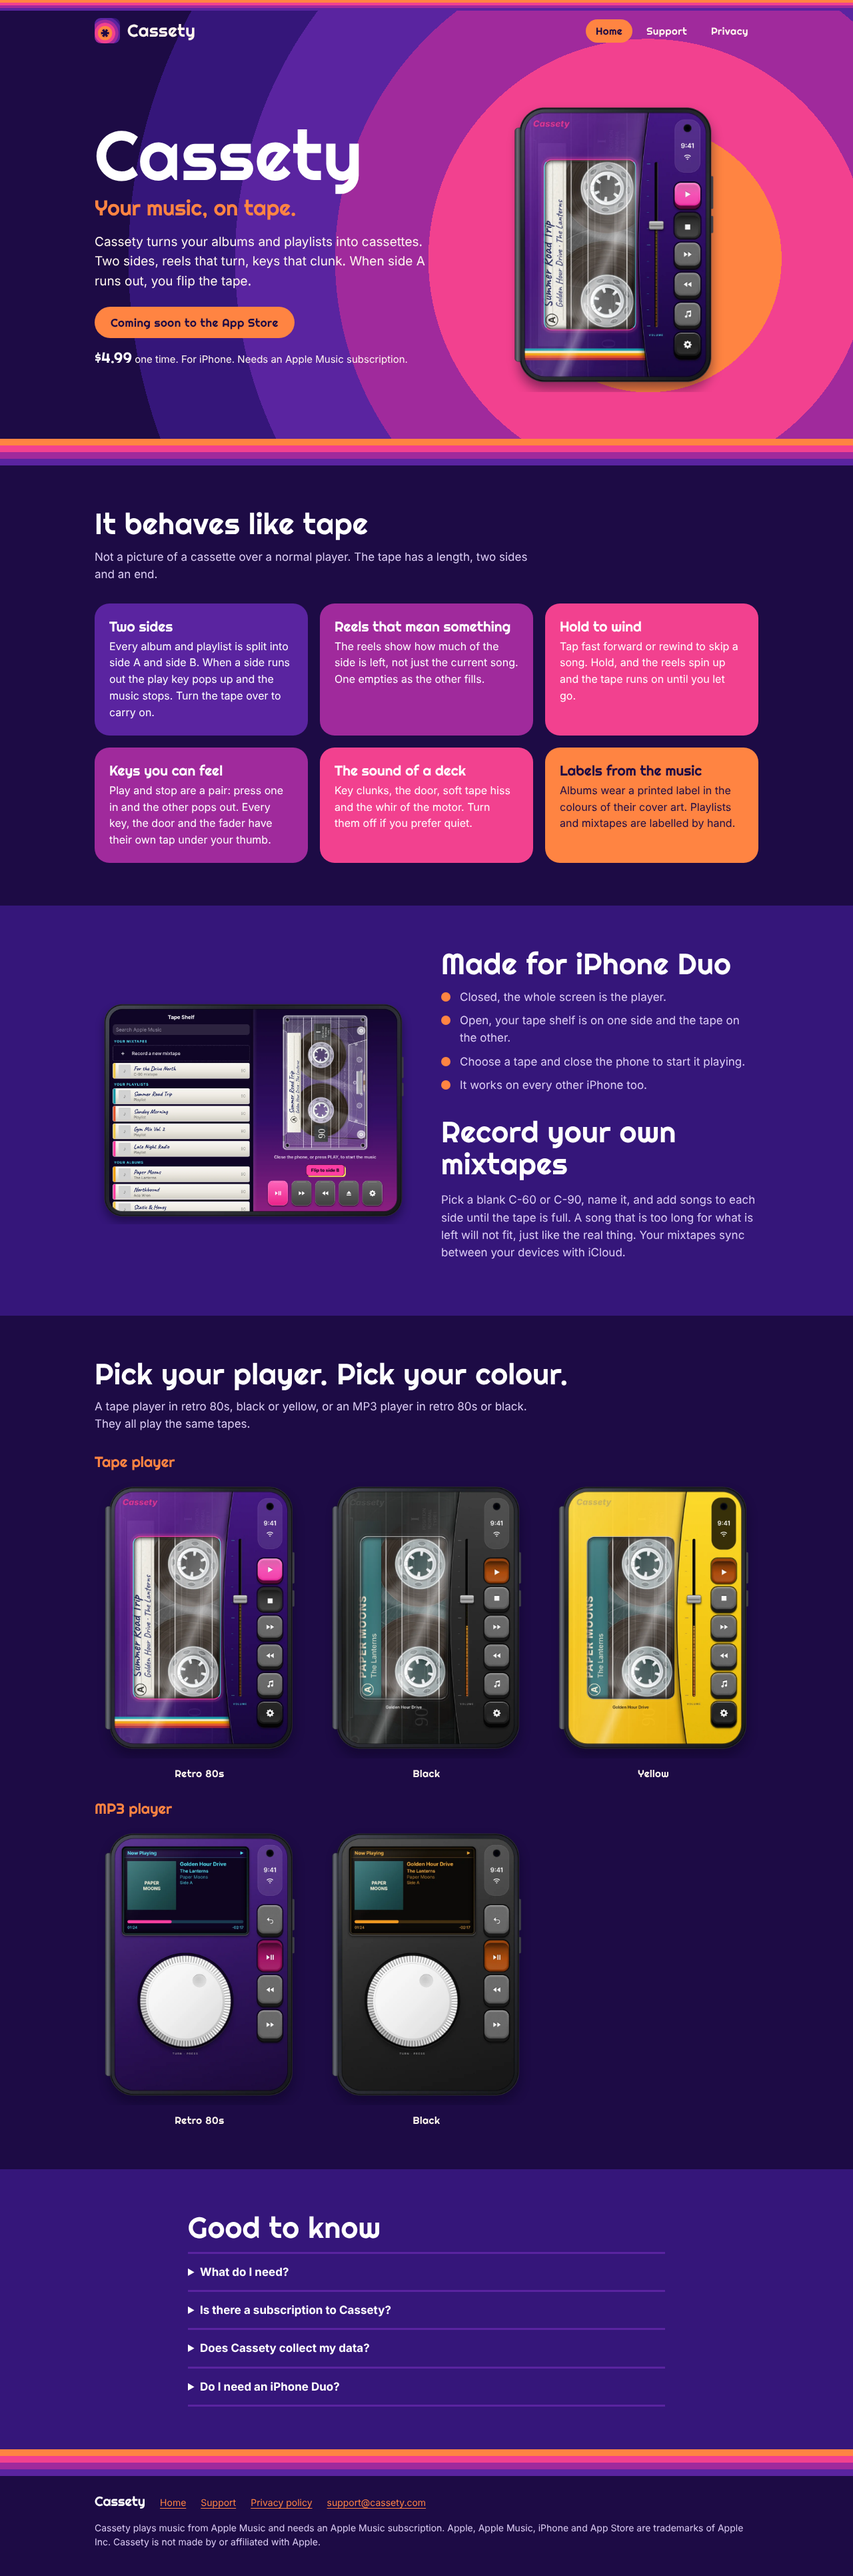
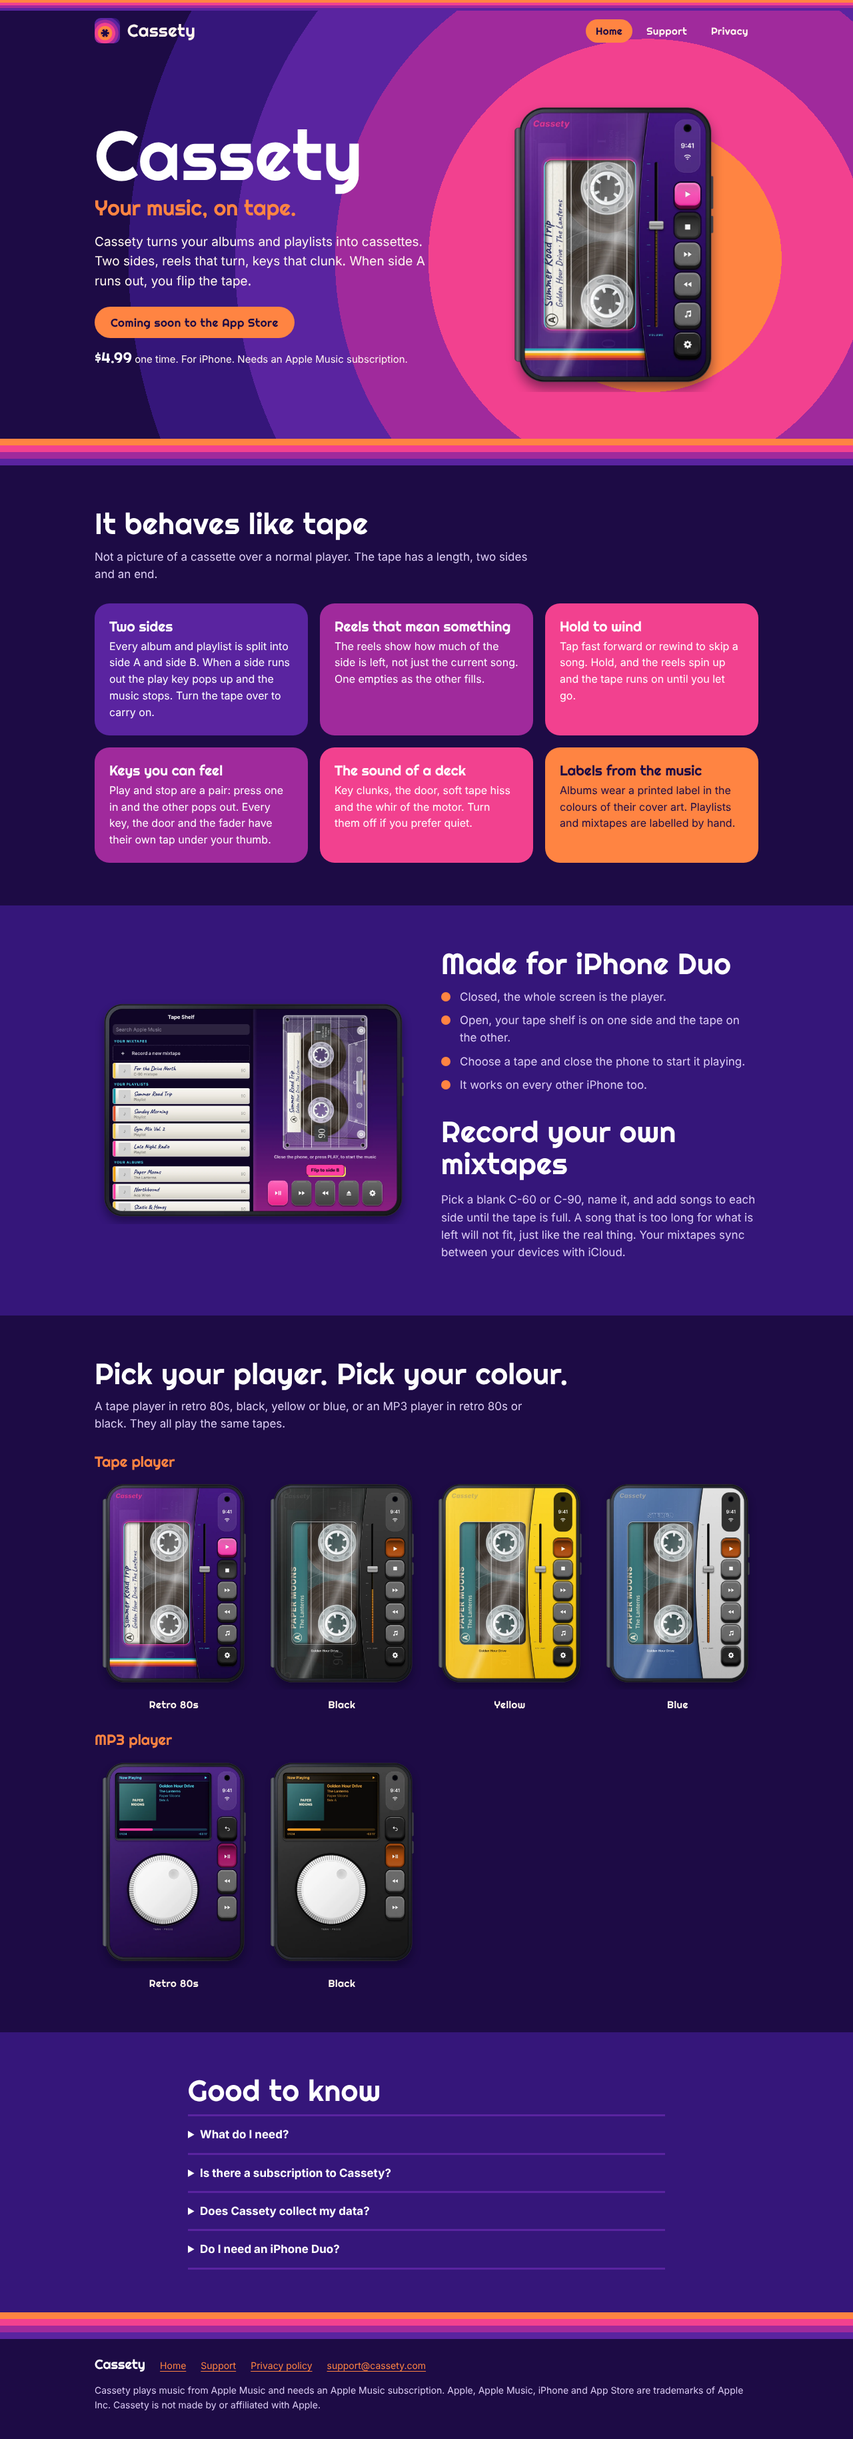
Add a blue and silver tape player skin
Blue painted metal with a silver side panel, an orange play key and
STEREO in outline lettering. Tape player only.

Claude-Session: https://claude.ai/code/session_015CNmSEpanpmujmbPK8yXHv

diff --git a/TapeDeck/Skin.swift b/TapeDeck/Skin.swift
@@ -10,6 +10,9 @@ enum Skin: String, CaseIterable, Identifiable {
     case yellow
     /// Eighties neon: deep purple with hot pink and cyan, and a band of stripes.
     case neon
+    /// Cassette player in blue painted metal with a silver side, like the
+    /// first pocket stereos of 1979.
+    case blue
     /// Click-wheel player in black.
     case wheelBlack
     /// Click-wheel player in silver with a white wheel.
@@ -48,6 +51,7 @@ enum Skin: String, CaseIterable, Identifiable {
         case .smoke: return "Black cassette player"
         case .yellow: return "Yellow cassette player"
         case .neon: return "Retro 80s cassette player"
+        case .blue: return "Blue cassette player"
         case .wheelBlack: return "Black click wheel"
         case .wheelSilver: return "Silver click wheel"
         }
@@ -58,6 +62,10 @@ enum Skin: String, CaseIterable, Identifiable {
 
     private var isPale: Bool { self == .yellow || self == .wheelSilver }
 
+    /// The blue player's case is dark but its side panel is pale silver, so
+    /// what sits on the panel is treated as on a pale case.
+    private var hasPalePanel: Bool { isPale || self == .blue }
+
     /// The casing over the tape, top left to bottom right. Smoke lets the
     /// tape show through dimly; yellow is very nearly solid.
     var casing: [Color] {
@@ -65,6 +73,11 @@ enum Skin: String, CaseIterable, Identifiable {
             return [Color(red: 1.00, green: 0.85, blue: 0.20).opacity(0.96),
                     Color(red: 0.98, green: 0.77, blue: 0.09).opacity(0.96),
                     Color(red: 0.91, green: 0.68, blue: 0.04).opacity(0.96)]
+        }
+        if self == .blue {
+            return [Color(red: 0.33, green: 0.47, blue: 0.68).opacity(0.97),
+                    Color(red: 0.24, green: 0.37, blue: 0.58).opacity(0.97),
+                    Color(red: 0.17, green: 0.28, blue: 0.47).opacity(0.97)]
         }
         if self == .neon {
             return [Color(red: 0.38, green: 0.10, blue: 0.58).opacity(0.93),
@@ -80,6 +93,9 @@ enum Skin: String, CaseIterable, Identifiable {
         if self == .yellow {
             return [Color(red: 0.99, green: 0.81, blue: 0.14), Color(red: 0.95, green: 0.73, blue: 0.07),
                     Color(red: 0.87, green: 0.64, blue: 0.03)]
+        }
+        if self == .blue {
+            return [Color(white: 0.86), Color(white: 0.76), Color(white: 0.64)]
         }
         if self == .neon {
             return [Color(red: 0.22, green: 0.08, blue: 0.42), Color(red: 0.14, green: 0.04, blue: 0.31),
@@ -127,20 +143,21 @@ enum Skin: String, CaseIterable, Identifiable {
     /// or shadow that makes them read as cut.
     var engraving: Color {
         if self == .neon { return Self.cyan.opacity(0.85) }
-        return isPale ? Color.black.opacity(0.60) : Color.white.opacity(0.55)
+        return hasPalePanel ? Color.black.opacity(0.60) : Color.white.opacity(0.55)
     }
 
     var engravingEdge: Color {
-        isPale ? Color.white.opacity(0.45) : Color.black.opacity(0.8)
+        hasPalePanel ? Color.white.opacity(0.45) : Color.black.opacity(0.8)
     }
 
     /// Which way the engraving's edge falls: shadow above on dark plastic,
     /// light below on pale.
-    var engravingEdgeOffset: CGFloat { isPale ? 0.7 : -0.7 }
+    var engravingEdgeOffset: CGFloat { hasPalePanel ? 0.7 : -0.7 }
 
     /// The faint Cassety name on the case.
     var mark: Color {
         if self == .neon { return Self.hotPink.opacity(0.85) }
+        if self == .blue { return Color.white.opacity(0.55) }
         return isPale ? Color.black.opacity(0.20) : Color.white.opacity(0.22)
     }
 
@@ -151,7 +168,10 @@ enum Skin: String, CaseIterable, Identifiable {
 
     /// The clock and status icons at the top of the Duo's rail are drawn in
     /// white, so a pale case needs a dark plate behind them.
-    var needsStatusPlate: Bool { isPale }
+    var needsStatusPlate: Bool { hasPalePanel }
+
+    /// A word in outline lettering above the tape window, if the case has one.
+    var caseWord: String? { self == .blue ? "STEREO" : nil }
 
     /// The body of a click-wheel player, top to bottom.
     var wheelBody: [Color] {
@@ -184,6 +204,7 @@ enum Skin: String, CaseIterable, Identifiable {
         case .smoke: return Color(white: 0.14)
         case .yellow: return Color(red: 0.98, green: 0.77, blue: 0.09)
         case .neon: return Color(red: 0.86, green: 0.16, blue: 0.62)
+        case .blue: return Color(red: 0.24, green: 0.37, blue: 0.58)
         case .wheelBlack: return Color(white: 0.04)
         case .wheelSilver: return Color(white: 0.80)
         }

diff --git a/TapeDeck/DeckView.swift b/TapeDeck/DeckView.swift
@@ -94,6 +94,16 @@ struct DeckView: View {
                     .allowsHitTesting(false)
                     .accessibilityHidden(true)
             }
+            // A word in outline lettering above the window, on cases that have one
+            .overlay(alignment: .topLeading) {
+                if let word = skin.caseWord {
+                    OutlinedWord(text: word, fill: skin.casing[1].opacity(1))
+                        .frame(width: window.width)
+                        .offset(x: window.minX, y: window.minY - 34)
+                        .allowsHitTesting(false)
+                        .accessibilityHidden(true)
+                }
+            }
             // Under the window: the song that is playing on an album tape
             // (its printed label has no room for it), or word that the tape
             // has run out.
@@ -717,5 +727,30 @@ struct PlainKeyButtonStyle: ButtonStyle {
             )
             .offset(x: down ? 4 : 0, y: down ? 4 : 0)
             .animation(.easeOut(duration: 0.08), value: down)
+    }
+}
+
+/// Lettering drawn as a white outline, as if printed on painted metal. The
+/// outline is the word in white nudged each way, with the word in the case
+/// colour laid over the middle.
+struct OutlinedWord: View {
+    let text: String
+    let fill: Color
+
+    private var word: some View {
+        Text(text)
+            .font(.system(size: 21, weight: .heavy))
+            .tracking(1.5)
+    }
+
+    var body: some View {
+        ZStack {
+            ForEach(0..<8, id: \.self) { step in
+                let angle = Double(step) * .pi / 4
+                word.foregroundColor(.white.opacity(0.9))
+                    .offset(x: CGFloat(cos(angle)) * 1.1, y: CGFloat(sin(angle)) * 1.1)
+            }
+            word.foregroundColor(fill)
+        }
     }
 }

diff --git a/website/index.html b/website/index.html
@@ -81,12 +81,13 @@
 <section>
   <div class="wrap">
     <h2>Pick your player. Pick your colour.</h2>
-    <p class="intro">A tape player in retro 80s, black or yellow, or an MP3 player in retro 80s or black. They all play the same tapes.</p>
+    <p class="intro">A tape player in retro 80s, black, yellow or blue, or an MP3 player in retro 80s or black. They all play the same tapes.</p>
     <h3 class="row-title">Tape player</h3>
     <div class="shots">
       <figure class="shot"><img src="images/duo-tape-80s.webp" alt="The tape player in retro 80s purple and pink." width="846" height="1134" loading="lazy"><figcaption>Retro 80s</figcaption></figure>
       <figure class="shot"><img src="images/duo-tape-black.webp" alt="The tape player in black smoked plastic." width="846" height="1134" loading="lazy"><figcaption>Black</figcaption></figure>
       <figure class="shot"><img src="images/duo-tape-yellow.webp" alt="The tape player in yellow." width="846" height="1134" loading="lazy"><figcaption>Yellow</figcaption></figure>
+      <figure class="shot"><img src="images/duo-tape-blue.webp" alt="The tape player in blue with a silver side." width="846" height="1134" loading="lazy"><figcaption>Blue</figcaption></figure>
     </div>
     <h3 class="row-title">MP3 player</h3>
     <div class="shots">

diff --git a/TapeDeck/Theme.swift b/TapeDeck/Theme.swift
@@ -18,6 +18,7 @@ struct Theme: Identifiable, Equatable {
             Theme(id: "tape-neon", name: "Tape player", detail: "Retro 80s", player: "tape", skin: .neon),
             Theme(id: "tape-smoke", name: "Tape player", detail: "Black", player: "tape", skin: .smoke),
             Theme(id: "tape-yellow", name: "Tape player", detail: "Yellow", player: "tape", skin: .yellow),
+            Theme(id: "tape-blue", name: "Tape player", detail: "Blue", player: "tape", skin: .blue),
             Theme(id: "mp3-neon", name: "MP3 player", detail: "Retro 80s", player: "mp3", skin: .neon),
             Theme(id: "mp3-smoke", name: "MP3 player", detail: "Black", player: "mp3", skin: .smoke)
         ]

diff --git a/website/styles.css b/website/styles.css
@@ -88,7 +88,8 @@ p.intro { color: var(--muted); max-width: 40em; margin: 0 0 30px; }
 .pair h2 + p { color: var(--muted); }
 .pair h2:not(:first-child) { margin-top: 34px; }
 
-.shots { display: grid; grid-template-columns: repeat(3, 1fr); gap: 34px 26px; justify-items: center; }
+.shots { display: flex; flex-wrap: wrap; gap: 30px 14px; }
+.shots .shot { width: calc(25% - 11px); min-width: 200px; }
 .row-title { margin: 30px 0 10px; font: 400 22px/1.2 "Righteous", sans-serif; color: var(--orange); }
 
 /* Text pages: plain and easy to read, on one flat sheet */

diff --git a/TapeDeck/MenuPlayerView.swift b/TapeDeck/MenuPlayerView.swift
@@ -51,7 +51,7 @@ struct MenuPlayerView: View {
     private var skin: Skin {
         let stored = Skin(rawValue: skinName) ?? Skin.standard
         // The MP3 player comes in Retro 80s and Black only.
-        if jog { return stored.isWheel || stored == .yellow ? Skin.standard : stored }
+        if jog { return stored == .neon || stored == .smoke ? stored : Skin.standard }
         return stored.isWheel ? stored : .wheelBlack
     }
 

diff --git a/store/listing.md b/store/listing.md
@@ -49,7 +49,7 @@ TWO PLAYERS IN ONE
 
 MORE
 • The tape on your Lock Screen, with keys.
-• Tape player in retro 80s, black or yellow. MP3 player in retro 80s or black.
+• Tape player in retro 80s, black, yellow or blue. MP3 player in retro 80s or black.
 • Your mixtapes and settings sync with iCloud, and can be saved to a backup file.
 
 Cassety plays music from Apple Music. An Apple Music subscription is required.
@@ -79,7 +79,7 @@ Answer the questionnaire honestly. Cassety has no content of its own, but it pla
 Apple needs real screenshots taken from the running app, at the sizes it lists for iPhone. The pictures in `docs/` are mock-ups made while the app was being designed. They are not screenshots and must not be uploaded as if they were. Take new ones in Xcode's simulator or on your phone once the app runs:
 
 1. The closed tape player in Retro 80s with an album tape playing.
-2. The tape player in Black, and in Yellow.
+2. The tape player in Black, Yellow and Blue.
 3. The MP3 player with its white dial.
 4. The open screen with the tape shelf.
 5. Recording a mixtape.

diff --git a/README.md b/README.md
@@ -30,6 +30,7 @@ A theme is what the closed phone looks like: which player it is and what colour 
 | --- | --- |
 | Tape player, Black | The cassette and its reels behind a window in dark smoked plastic, with the volume fader and keys beside it. |
 | Tape player, Yellow | The same in bright yellow with dark engraved lettering. |
+| Tape player, Blue | Blue painted metal with a silver side for the keys, an orange play key and STEREO in outline lettering, after the first pocket stereos of 1979. |
 | Tape player, Retro 80s | Eighties neon: deep purple, a glowing pink and cyan window, a hot pink play key and a band of stripes. |
 | MP3 player, Black | A display of menus and a white jog dial, in dark plastic. |
 | MP3 player, Retro 80s | The same in purple, with cyan lettering on the display and a pink highlight. |
